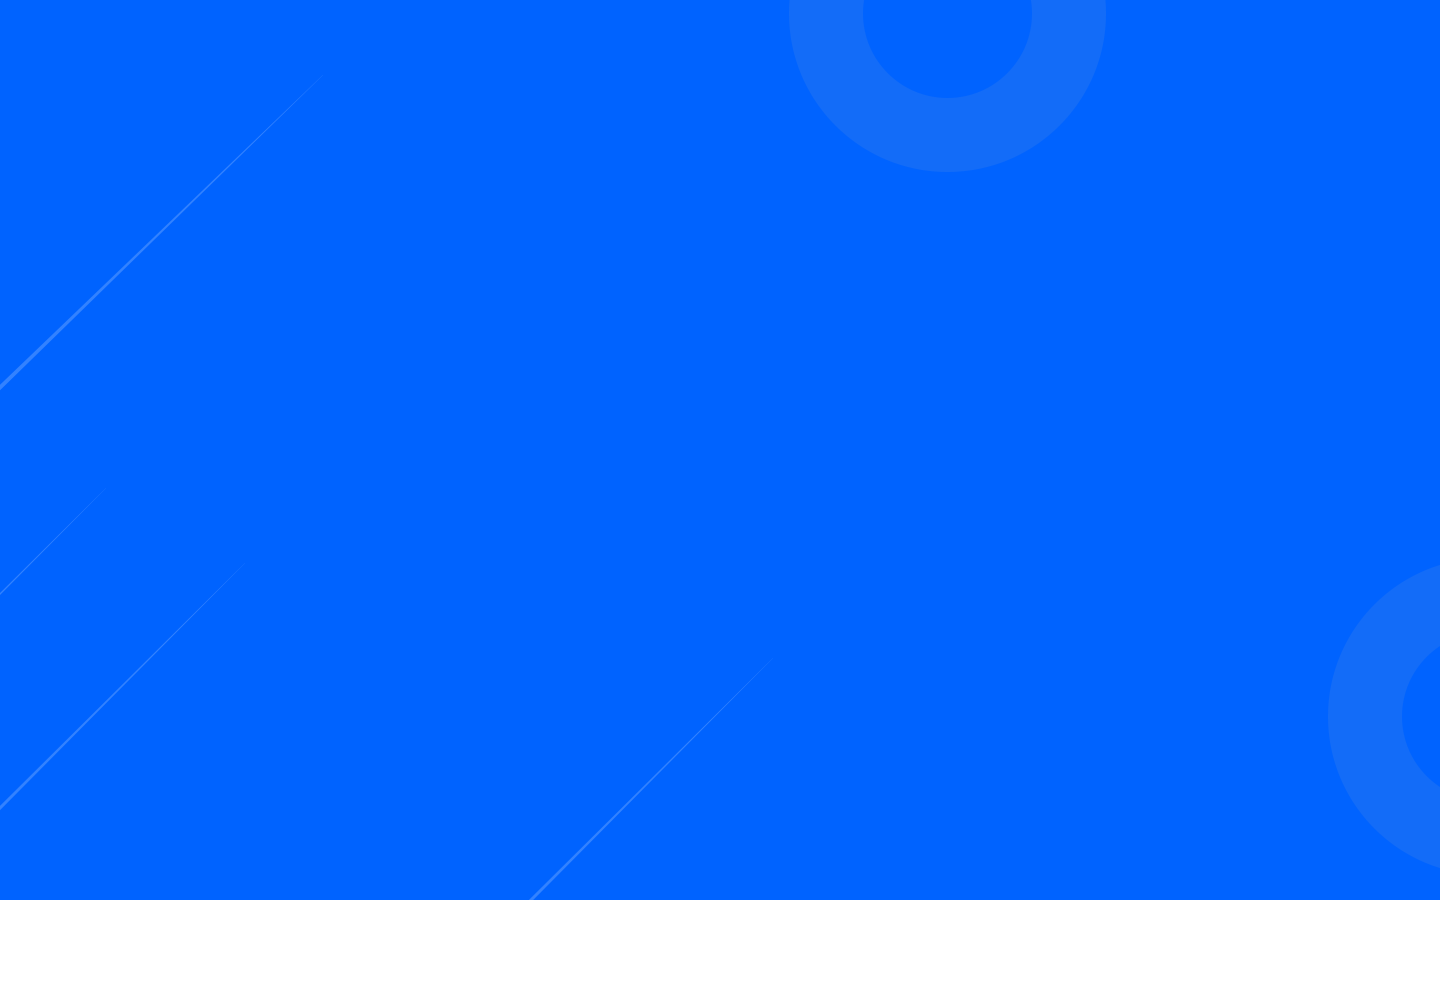
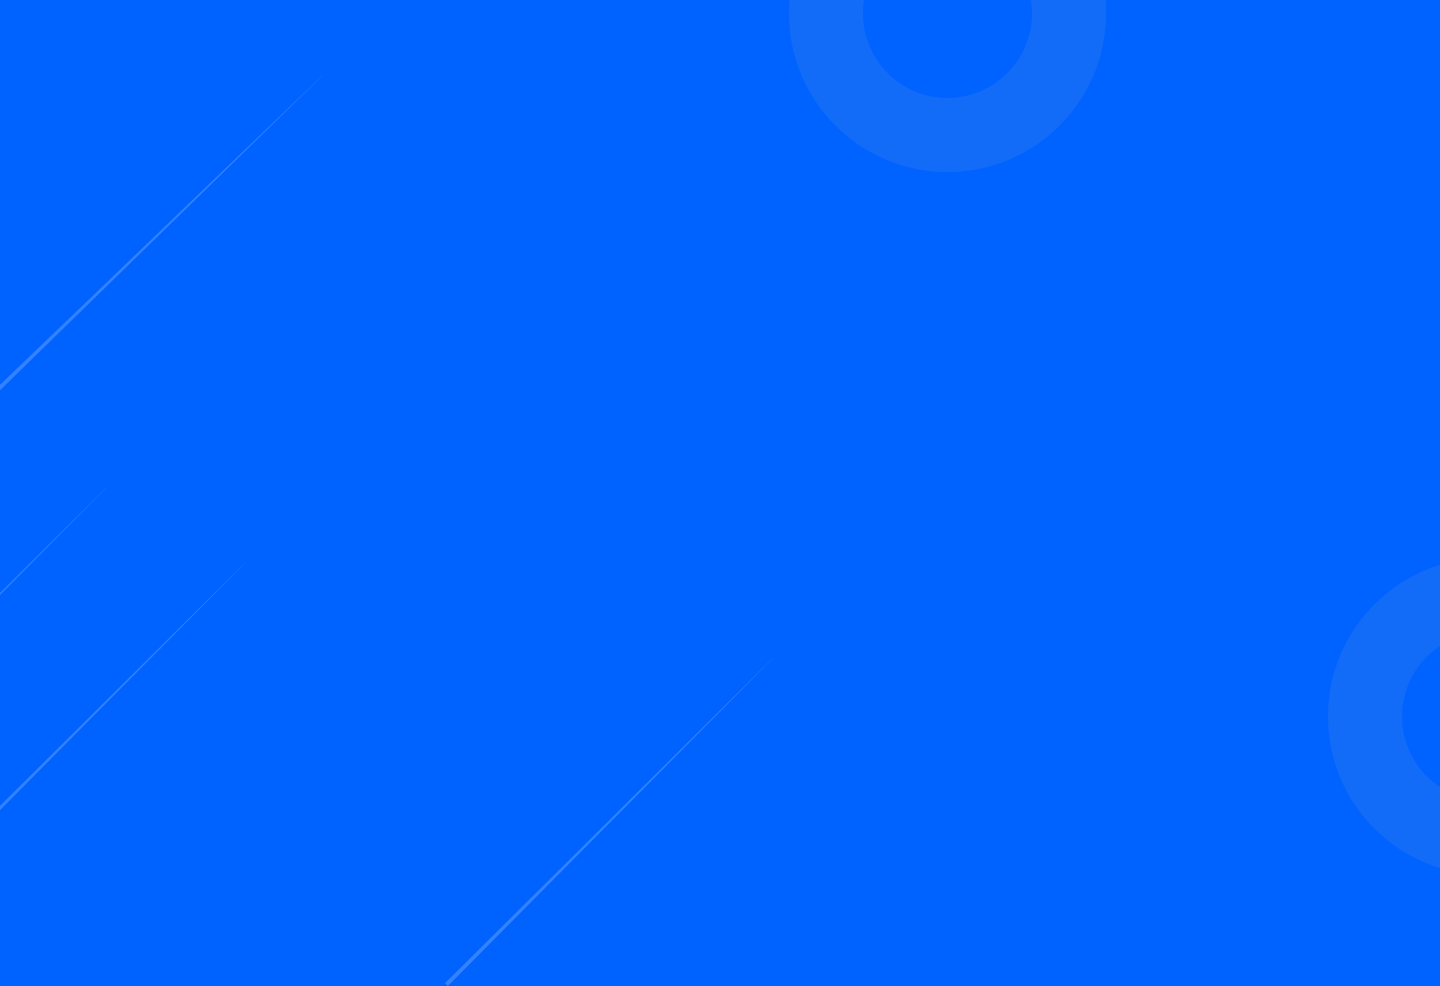
Update UI

Changed region(s): [[0.0, 0.9128, 1.0, 1.0]]

diff --git a/client/src/views/Confirmation.vue b/client/src/views/Confirmation.vue
@@ -1,7 +1,7 @@
 <template>
-    <div id="signup">
+    <div id="signup" class="backgroundCover" :style="{ backgroundImage: `url('${images[0]}')` }">
         <v-container fluid>
-            <v-layout row wrap justify-center>
+            <v-layout row wrap justify-center class="white--text">
                 <v-flex xs12>
                     <p class="text-xs-center display-2" router to="/">ME-Assistant</p>
                     <p class="text-xs-center headline">Confirmation de votre compte</p>
@@ -147,10 +147,11 @@
 
 <script>
     import {Auth} from "../graphql";
-
+    import section1 from '@/assets/section1.png'
     export default {
         data() {
             return {
+                images: [section1],
                 error: '',
                 stepper: 1,
                 signup: {
@@ -241,5 +242,8 @@
 </script>
 
 <style scoped>
-
+    .backgroundCover {
+        height: 100%;
+        background-size: cover;
+    }
 </style>
